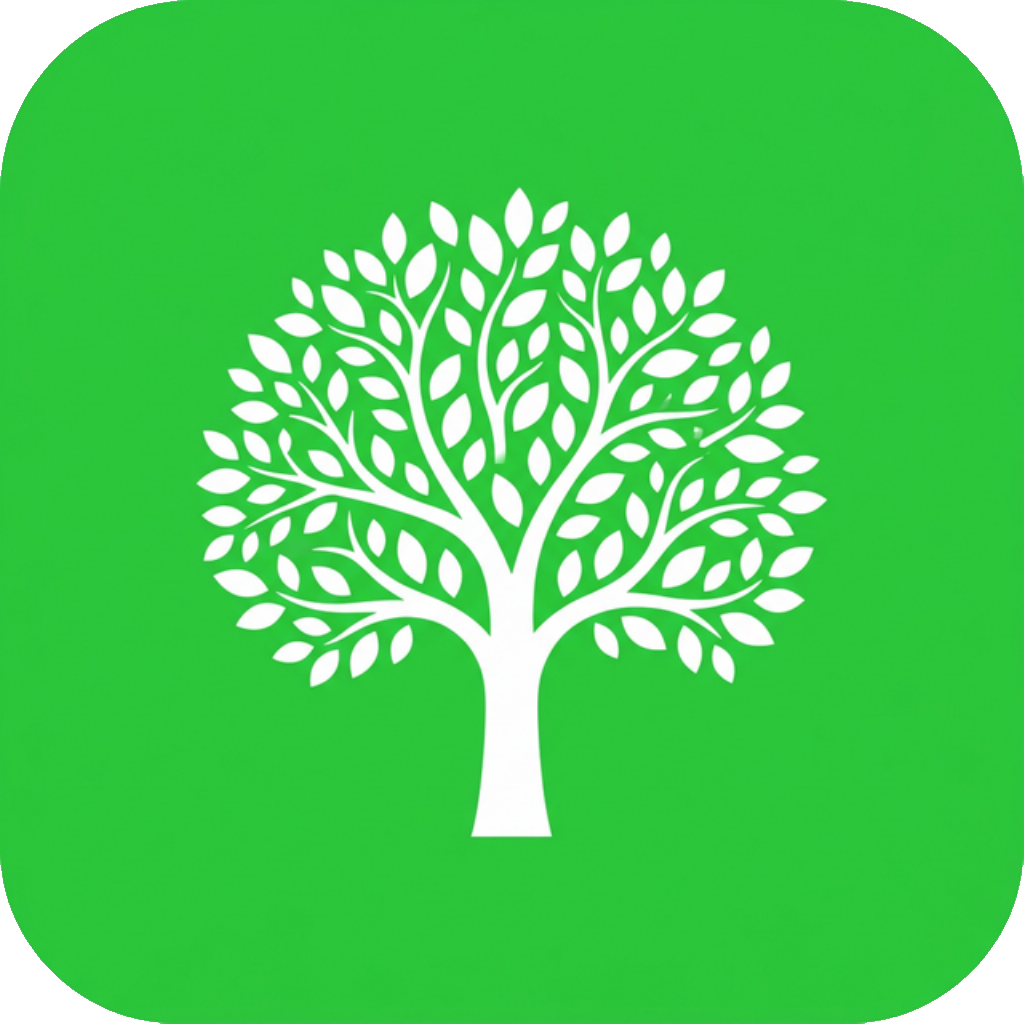
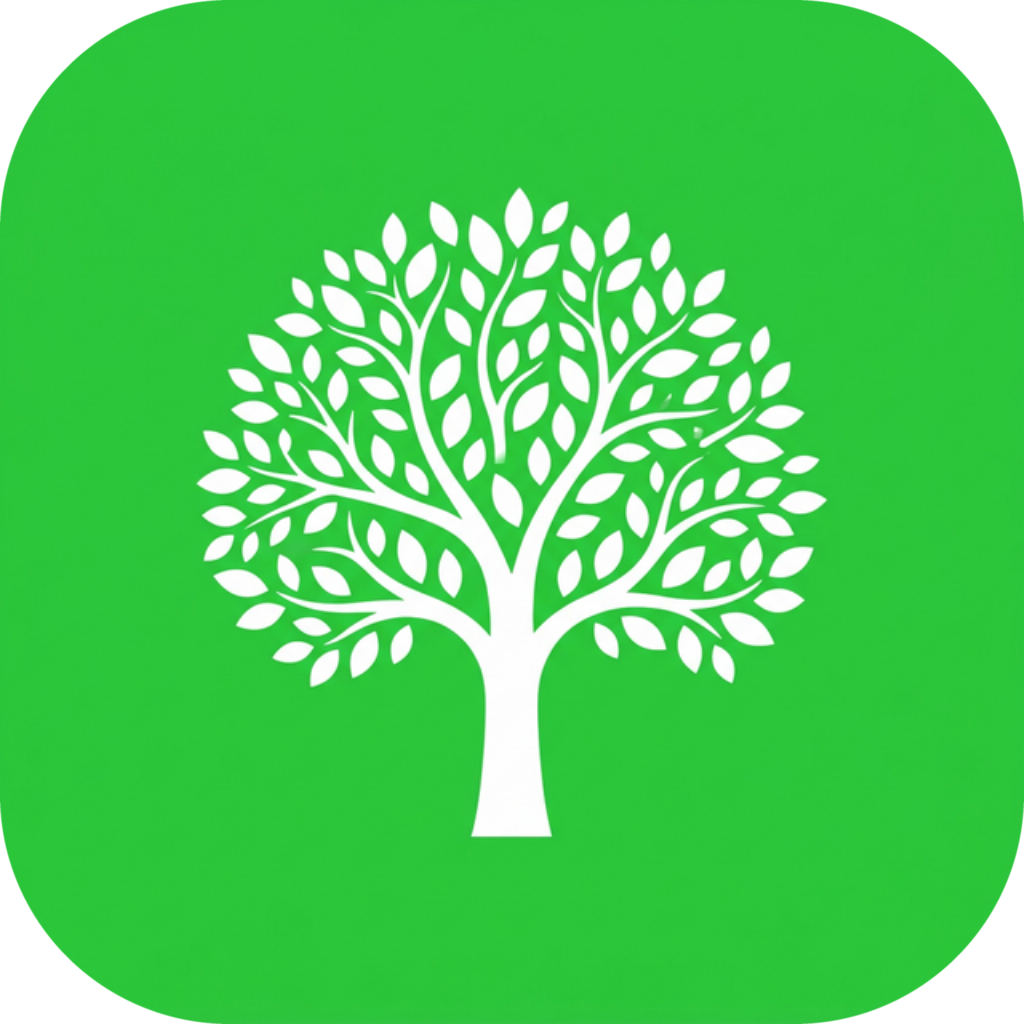
fix(hazher-site): bake AA squircle mask into EcoShelf PNG, remove double border-radius CSS
Made-with: Cursor

diff --git a/hazher-site/styles.css b/hazher-site/styles.css
@@ -415,7 +415,6 @@ h4 {
   width: 100%;
   height: 100%;
   object-fit: contain;
-  border-radius: 22.37%;
   background: transparent;
 }
 
@@ -604,7 +603,6 @@ h4 {
 
 .app-icon-tile img[src*="ecoshelf-app-icon"] {
   object-fit: contain;
-  border-radius: 22.37%;
   background: transparent;
 }
 
